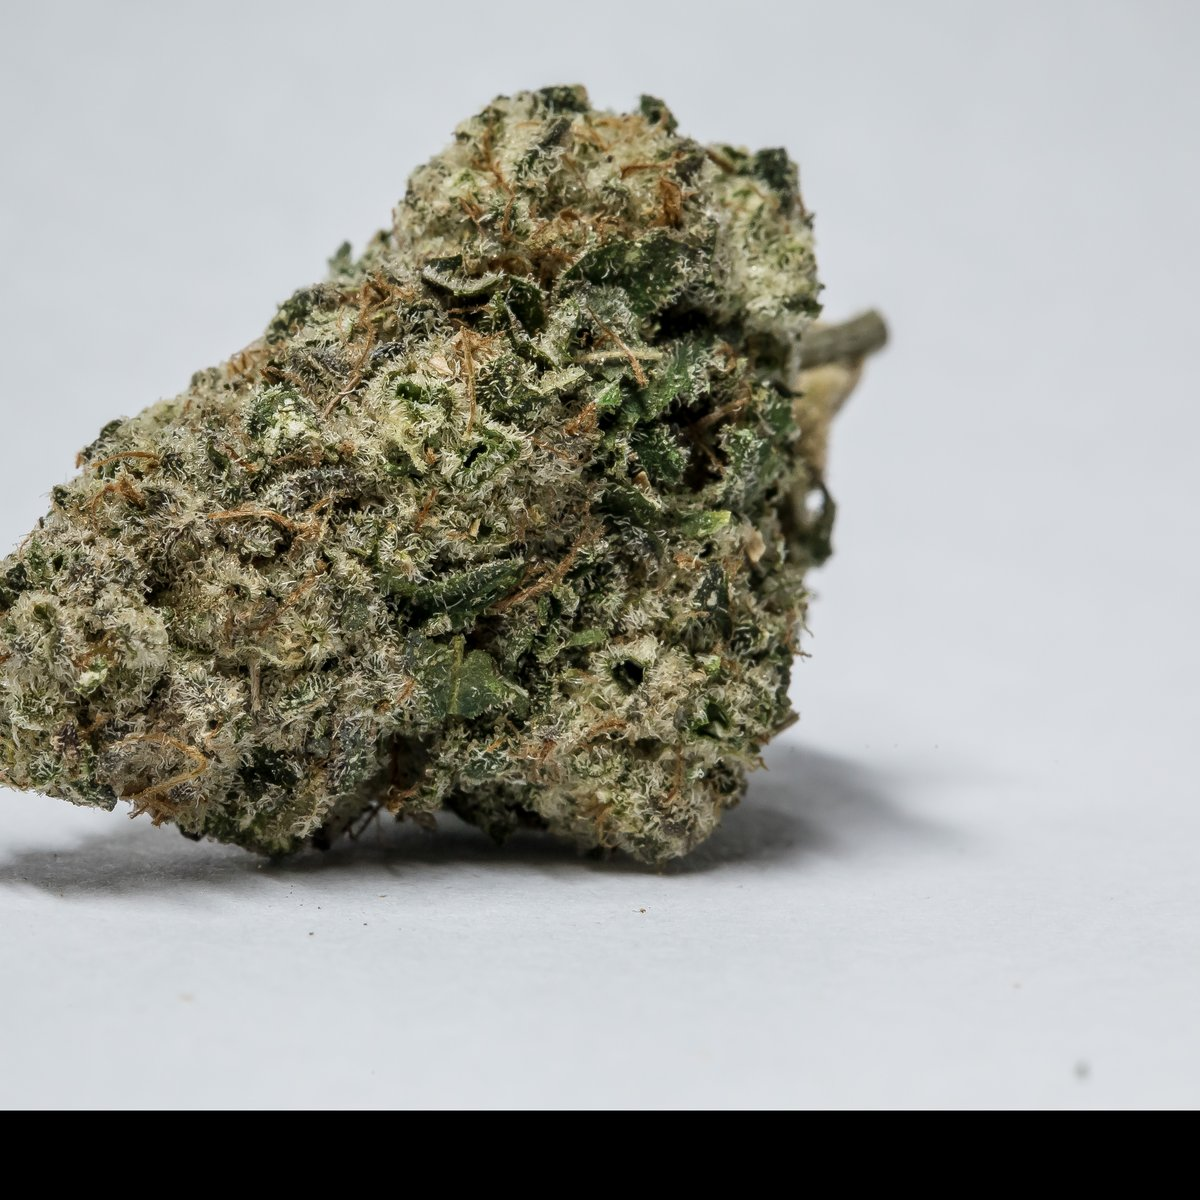
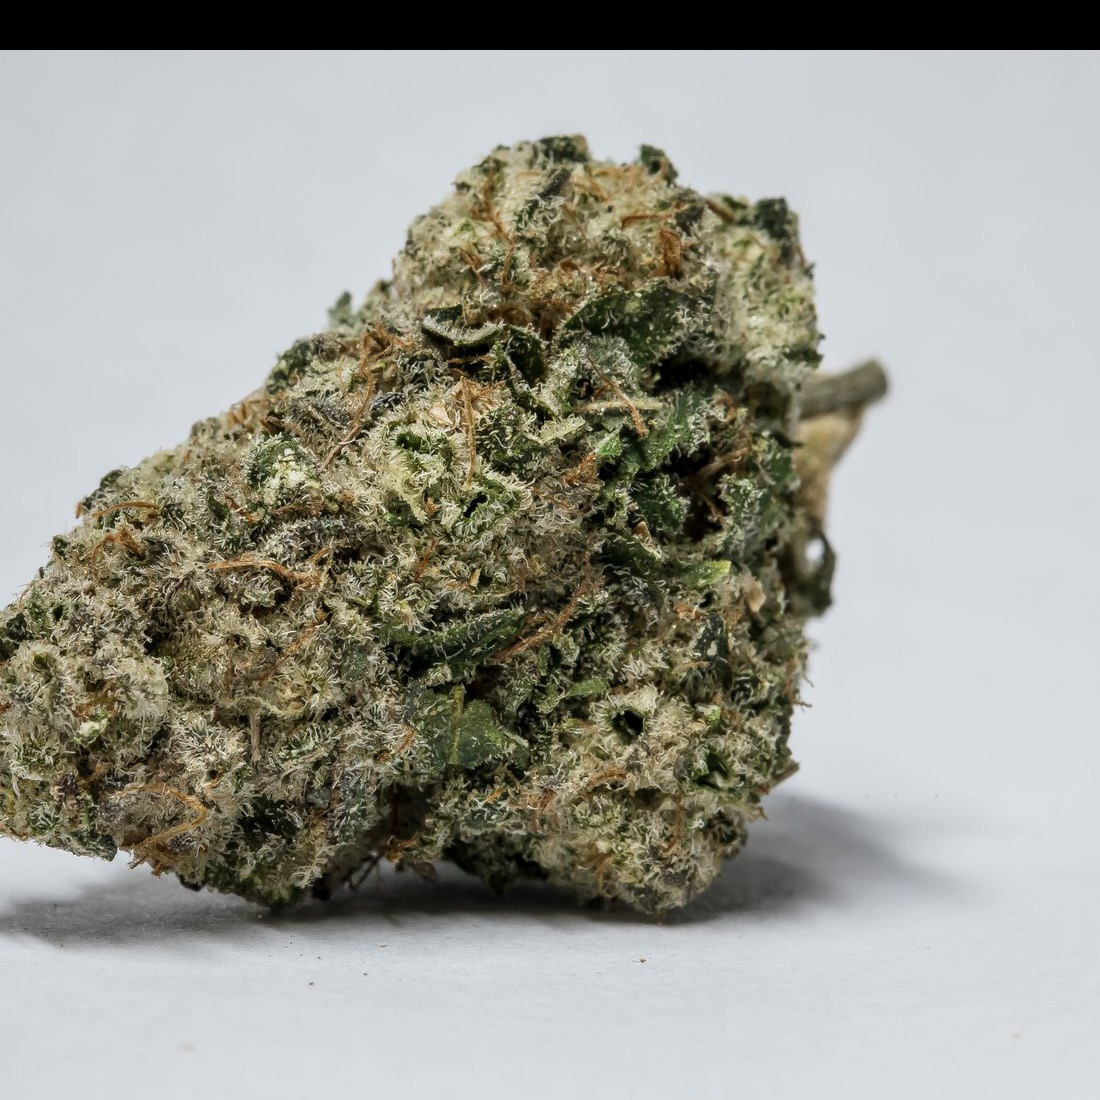
Strain grid: drop card frame, bigger lightbox, fix Alien Mints crop
The visible card frame around each bud (bg-[#EAE6DE] + rounded-xl
+ inner padding) was the actual "frame" Kevin saw — the photo's
white background sat inside the warm beige card, creating a
double-rectangle look. Stripping all card styling lets each bud
sit cleanly on the page background, no inner box, no padding.

- Removed bg, rounded corners, and inner padding from grid cards
- Lightbox now max-w-7xl + max-h-[92vh], dropped decorative
  bg/rounded for a clean fullscreen view
- Cropped strain-alien-mints.jpg from 1200x1200 to 1100x1100 to
  remove the black bar at the bottom of the source file (sips
  --cropOffset, kept the top, dropped bottom + sides 50px each)

diff --git a/components/StrainGrid.tsx b/components/StrainGrid.tsx
@@ -53,13 +53,13 @@ export default function StrainGrid({
             className="space-y-3 group text-left focus:outline-none focus-visible:ring-2 focus-visible:ring-[#5A6A4F] rounded-xl"
             aria-label={`Enlarge ${s.name}`}
           >
-            <div className="aspect-square rounded-xl overflow-hidden bg-[#EAE6DE] cursor-zoom-in p-4 md:p-6">
+            <div className="aspect-square overflow-hidden cursor-zoom-in">
               <Image
                 src={s.img}
                 alt={s.name}
                 width={1200}
                 height={1200}
-                className="w-full h-full object-contain transition-transform duration-500 group-hover:scale-105"
+                className="w-full h-full object-contain transition-transform duration-500 group-hover:scale-[1.03]"
               />
             </div>
             <p className="text-center text-[#1E1E1E] text-sm font-medium">
@@ -117,7 +117,7 @@ export default function StrainGrid({
           )}
 
           <div
-            className="relative max-w-6xl w-full flex flex-col items-center cursor-default"
+            className="relative max-w-7xl w-full flex flex-col items-center cursor-default"
             onClick={(e) => e.stopPropagation()}
           >
             <Image
@@ -125,7 +125,7 @@ export default function StrainGrid({
               alt={strains[openIndex].name}
               width={2000}
               height={2000}
-              className="w-auto h-auto max-w-full max-h-[90vh] object-contain rounded-lg bg-[#EAE6DE]"
+              className="w-auto h-auto max-w-full max-h-[92vh] object-contain"
               priority
             />
             <p className="text-white/80 text-base font-light text-center mt-4">
